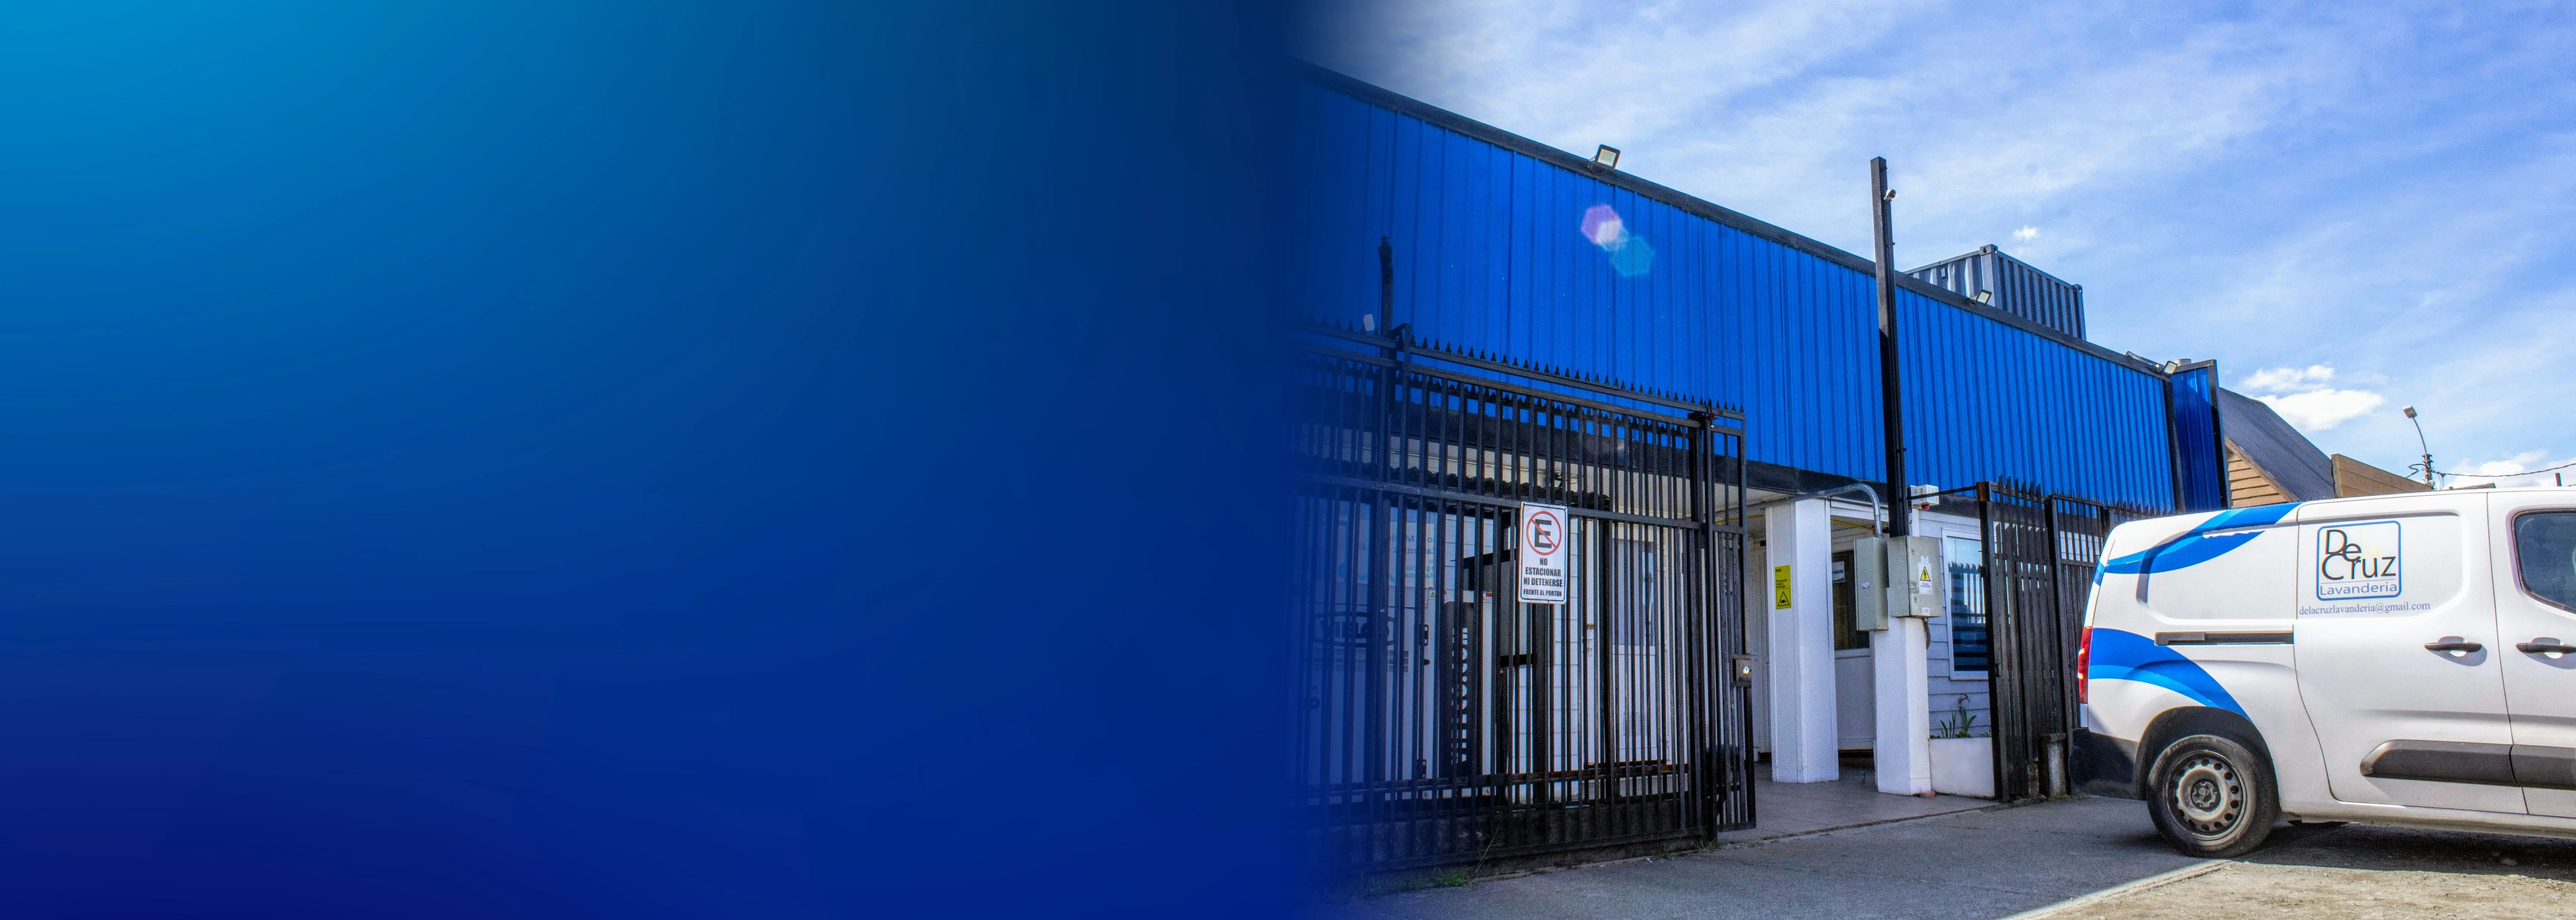
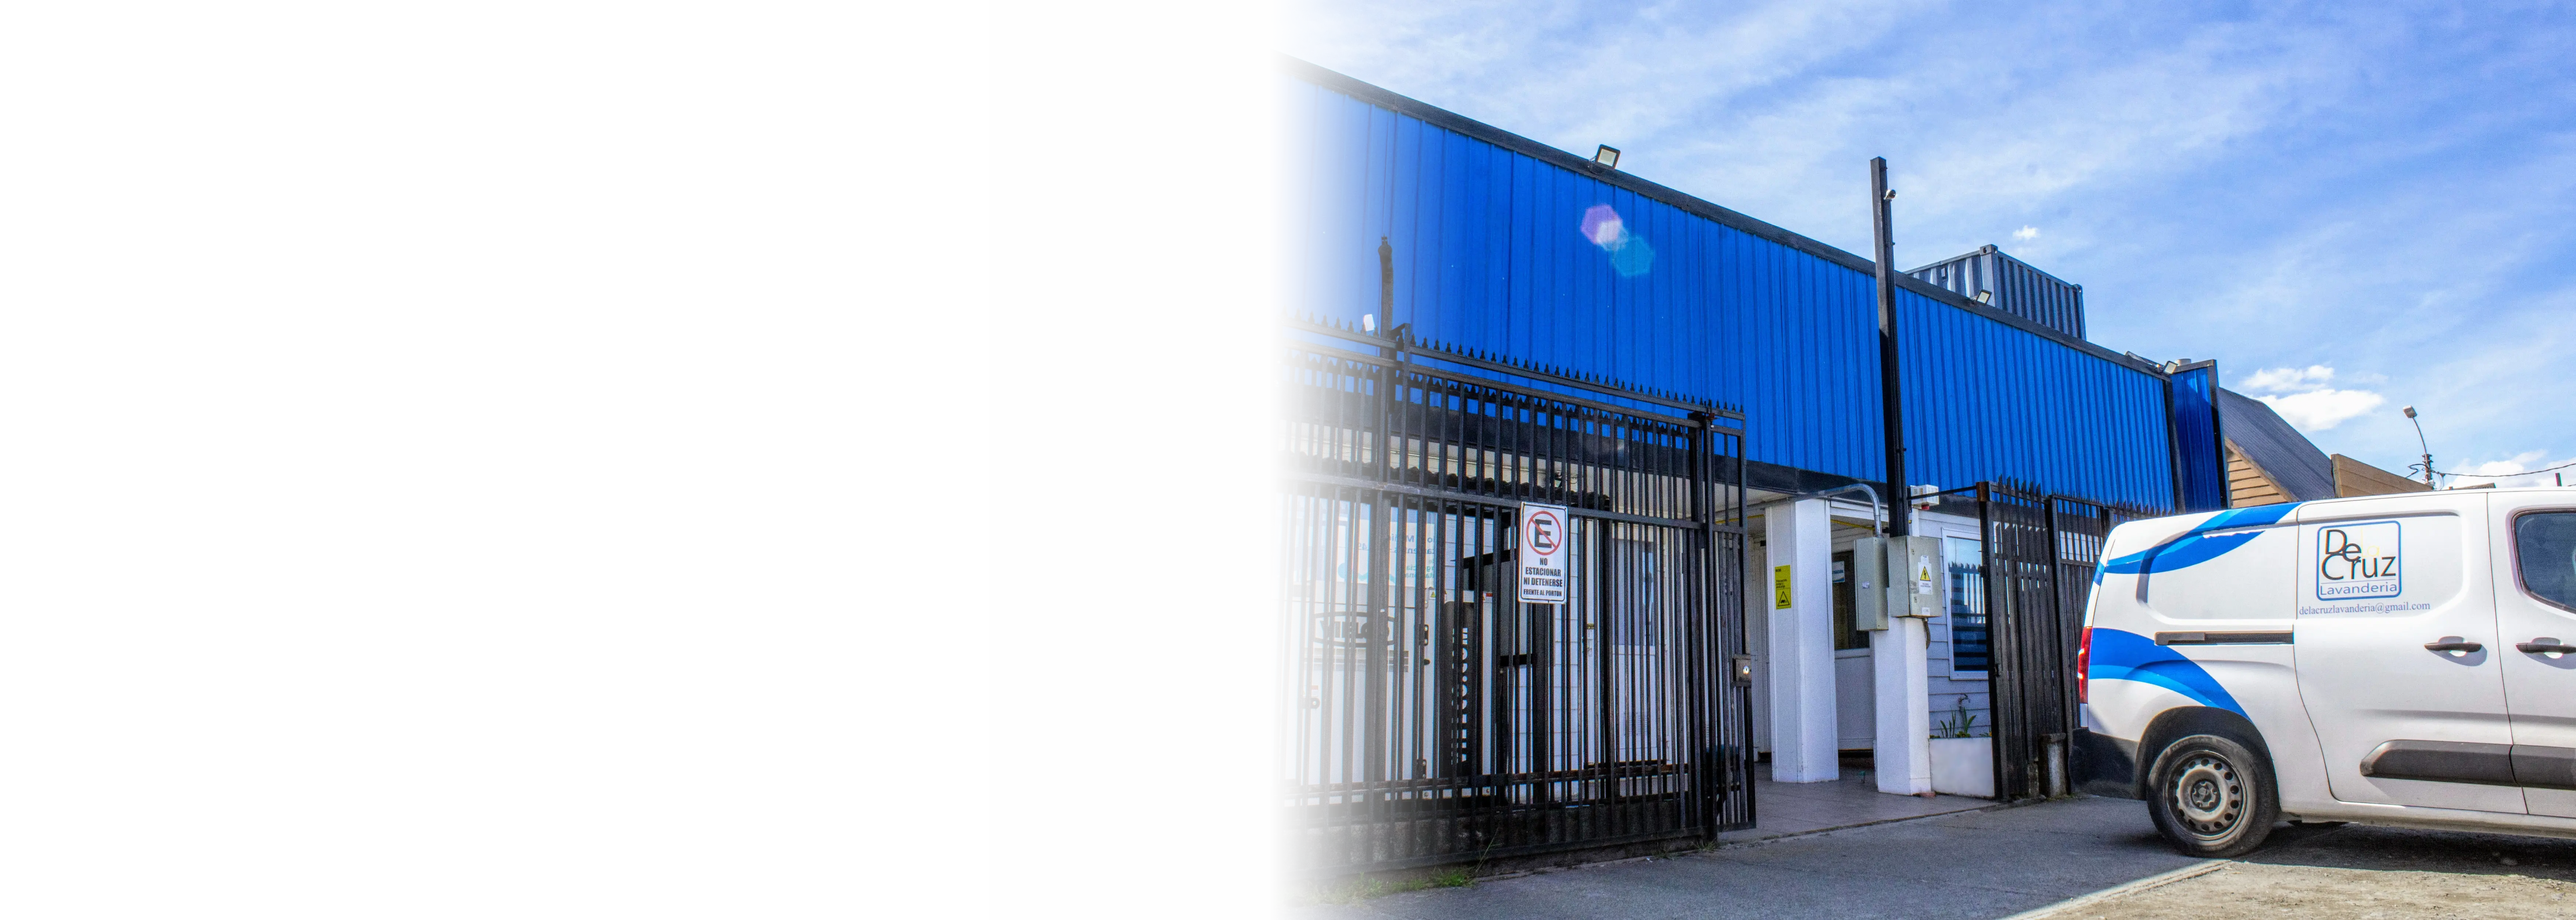
background gradient

diff --git a/css/style.css b/css/style.css
@@ -376,9 +376,11 @@
     #hero {
         width: 100%;
         height: 70vh;
-        background-image: url('../img/banners/Banner.webp');
-        background-size: cover;
-        background-position: center;
+        background: 
+            url('../img/banners/Banner.webp'),
+            linear-gradient(159deg, rgba(29, 167, 223, 1) 0%, rgba(16, 30, 116, 1) 80%, rgba(16, 20, 107, 1) 100%);            
+        background-size: cover, cover; /* Ajusta el tamaño de ambas capas */
+        background-position: center, center; /* Ajusta la posición de ambas capas */
         border-bottom: 2px solid #f0faff;
         margin: 72px 0 -72px 0;
     }
@@ -436,7 +438,7 @@
 
     @media (max-width: 991px) {
         #hero {
-        background-image: url('../img/banners/Fondo.webp');
+        background: linear-gradient(159deg, rgba(29,167,223,1) 0%, rgba(16,30,116,1) 80%, rgba(16,20,107,1) 100%);
         margin: 25px 0 -72px 0;
         height: auto; 
         }
